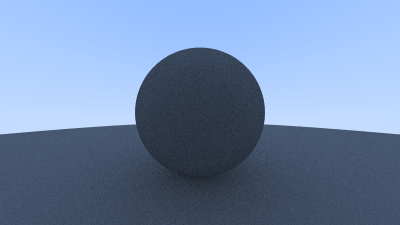
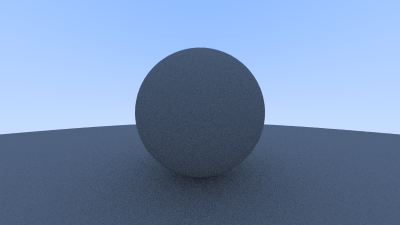
fix shadow acne

Changed region(s): [[0.33, 0.1867, 0.66, 0.7467], [0.63, 0.9956, 0.66, 1.0]]

diff --git a/src/camera.rs b/src/camera.rs
@@ -101,11 +101,11 @@ impl Camera {
 
     fn ray_color(ray: &Ray, depth: u32, world: &impl Hittable) -> Color {
         // If we've exceeded the ray bounce limit, no more light is gathered
-        if depth <= 0 {
+        if depth == 0 {
             return Color::new(0., 0., 0.);
         }
 
-        if let Some(hit_record) = world.hit(ray, &Interval::new(0.0, f64::INFINITY)) {
+        if let Some(hit_record) = world.hit(ray, &Interval::new(0.001, f64::INFINITY)) {
             let direction = Vec3::random_on_hemisphere(hit_record.normal());
             return 0.5
                 * Self::ray_color(
